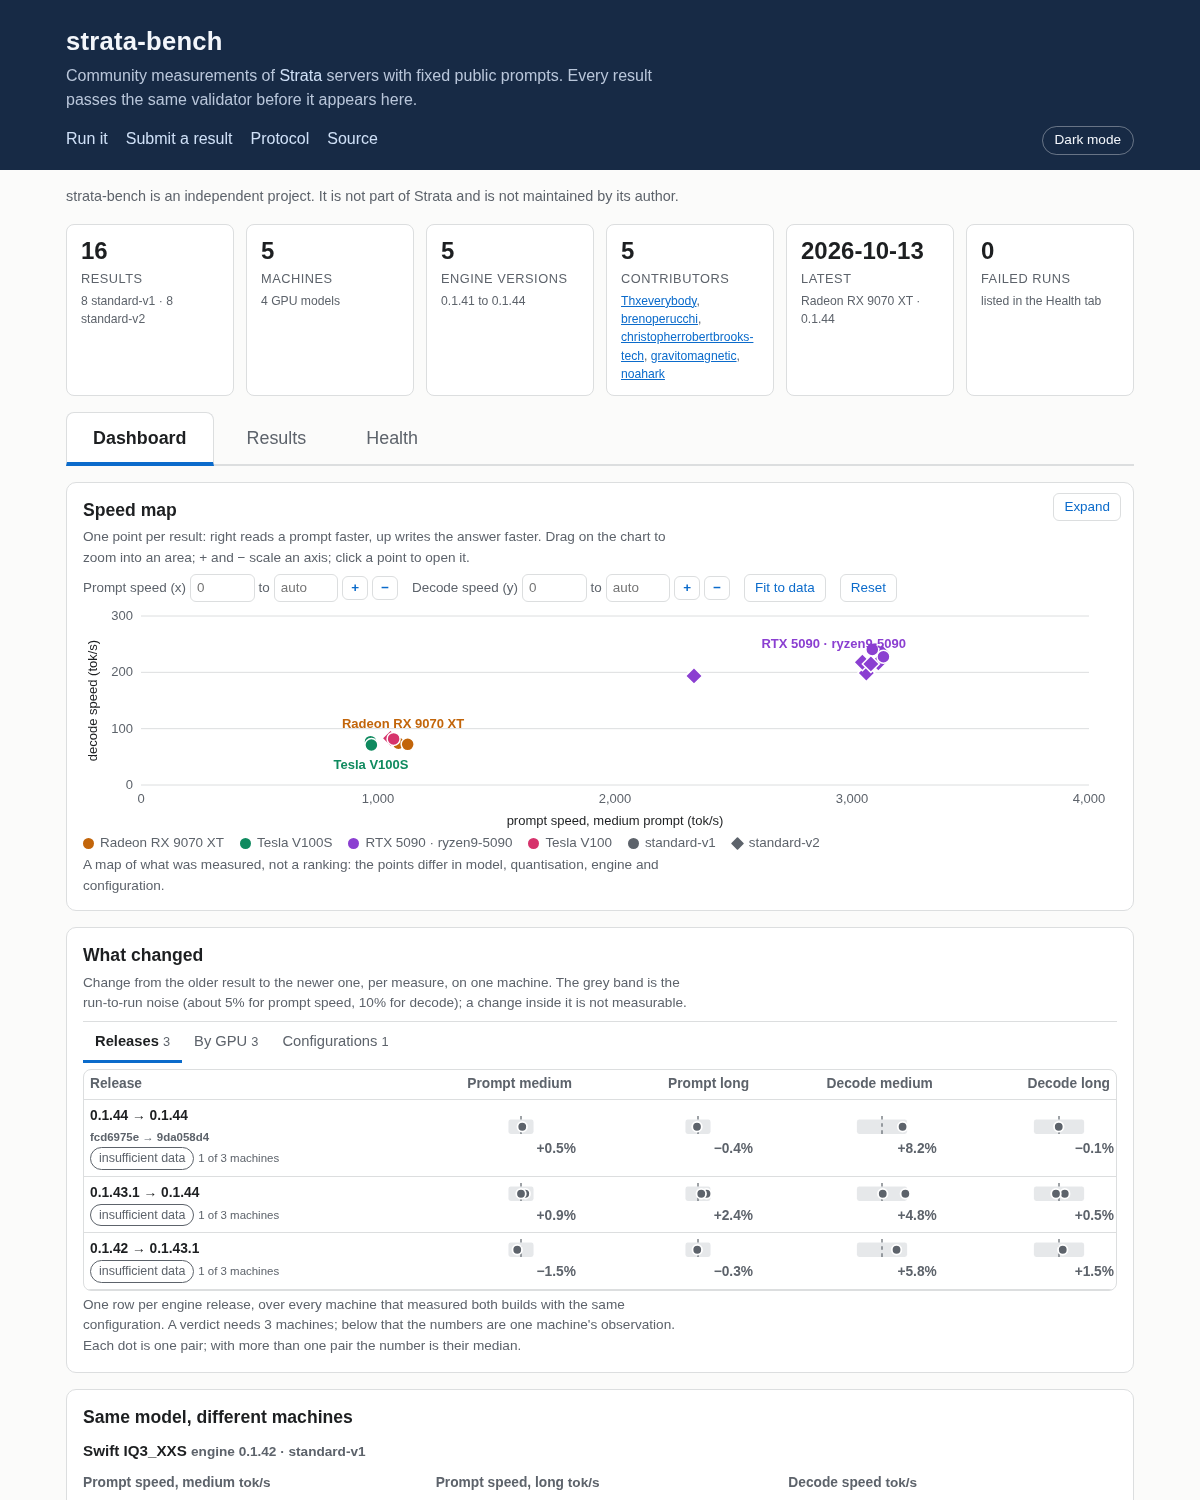
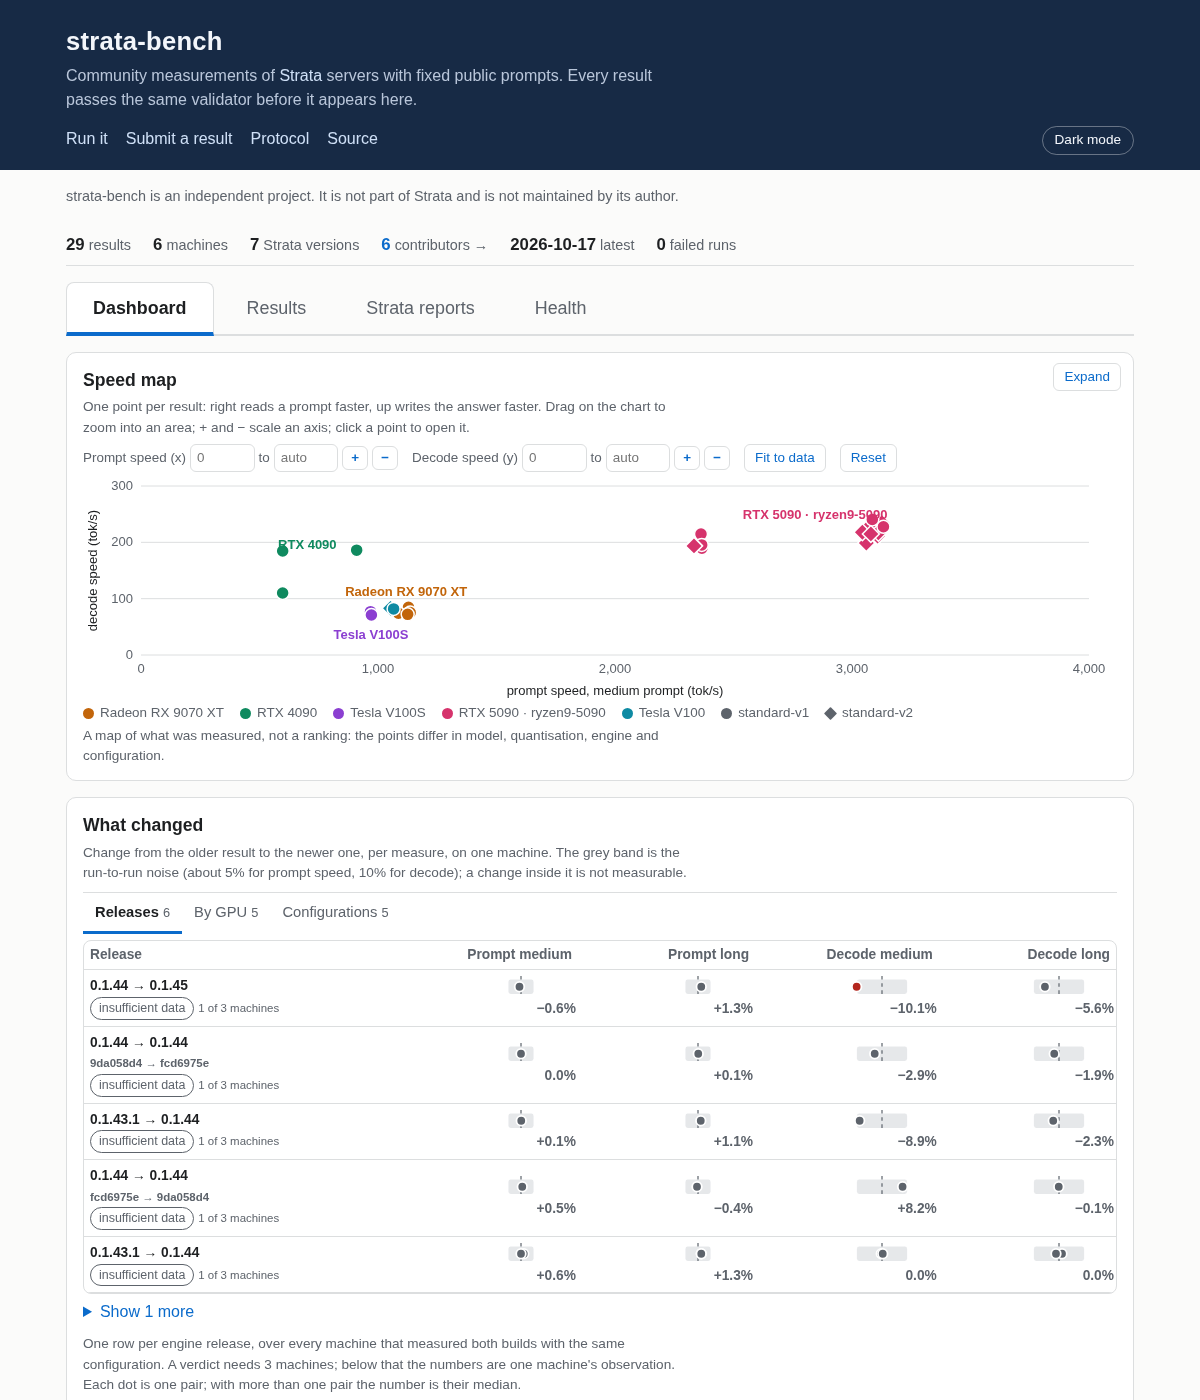
A quieter summary line, and a thank-you page for the contributors
The six summary cards become one line of numbers. The contributors are a count that links to contributors.html, which lists everyone who declared a name (results, GPUs, Strata versions, first and latest day, each name linking to that person's results), so the top of the page no longer grows with the number of people. README text and screenshots updated.

diff --git a/docs/contributors.js b/docs/contributors.js
@@ -1,0 +1,40 @@
+"use strict";
+// The thank-you page: who ran strata-bench on their own machine and sent a result, read from data.json.
+// A name is declared by whoever sent the result (submission.by), not verified; every value is escaped before it reaches the page.
+(function (root) {
+  var esc = function (s) { return String(s === null || s === undefined ? "" : s).replace(/[&<>"']/g, function (c) { return { "&": "&amp;", "<": "&lt;", ">": "&gt;", '"': "&quot;", "'": "&#39;" }[c]; }); };
+  var day = function (d) { return String(d || "").slice(0, 10); };
+
+  // one entry per declared name: how many results, on which GPUs and engines, first and last day; most results first
+  function people(rows) {
+    var by = {};
+    rows.forEach(function (r) {
+      if (!r || !r.by) return;
+      var p = by[r.by] = by[r.by] || { name: r.by, results: 0, gpus: {}, engines: {}, first: "", last: "" };
+      p.results++;
+      if (r.gpu) p.gpus[r.gpu] = 1;
+      if (r.engine) p.engines[r.engine] = 1;
+      var d = day(r.date);
+      if (d && (!p.first || d < p.first)) p.first = d;
+      if (d && d > p.last) p.last = d;
+    });
+    return Object.keys(by).map(function (k) { var p = by[k]; p.gpus = Object.keys(p.gpus).sort(); p.engines = Object.keys(p.engines).sort(); return p; })
+      .sort(function (a, b) { return b.results - a.results || a.name.localeCompare(b.name); });
+  }
+
+  function render(rows) {
+    var list = people(rows || []);
+    if (!list.length) return "<p class='hint'>No name has been declared yet. Add <code>--by your-name</code> to your run and your result is listed here.</p>";
+    var total = list.reduce(function (n, p) { return n + p.results; }, 0);
+    return "<p class='lede-text'>Every row is someone who ran strata-bench on their own machine and sent the result. " + esc(list.length) + " people so far, " + esc(total) + " results between them. Thank you.</p>" +
+      "<div class='scroll'><table class='contributors'><thead><tr><th>Name</th><th class='num'>Results</th><th>GPUs</th><th>Strata versions</th><th>First</th><th>Latest</th></tr></thead><tbody>" +
+      list.map(function (p) {
+        return "<tr><td><a href='index.html?by=" + encodeURIComponent(p.name) + "'>" + esc(p.name) + "</a></td><td class='num'>" + esc(p.results) + "</td><td>" + esc(p.gpus.join(", ") || "–") + "</td><td>" + esc(p.engines.join(", ") || "–") + "</td><td class='nowrap'>" + esc(p.first || "–") + "</td><td class='nowrap'>" + esc(p.last || "–") + "</td></tr>";
+      }).join("") + "</tbody></table></div>" +
+      "<p class='hint'>A name is declared by whoever sent the result and is not verified. Click a name to see that person's results. Want to be on this list? <a href='submit.html'>Send a result</a>.</p>";
+  }
+
+  var api = { people: people, render: render };
+  root.StrataContributors = api;
+  if (typeof module !== "undefined" && module.exports) module.exports = api;
+})(typeof window !== "undefined" ? window : this);

diff --git a/docs/overview.js b/docs/overview.js
@@ -23,19 +23,22 @@
     return out;
   }
 
+  // The numbers at the top, as one quiet line: the contributors are a count that links to the thank-you page, so the line never grows with the people.
   function kpi(rows) {
     var s = I.summary(rows), latest = s.latest;
     var eng = s.engines.length > 1 ? s.engines[0] + " to " + s.engines[s.engines.length - 1] : s.engines[0] || "";
-    var who = s.contributors.map(function (n) { return "<a href='?by=" + encodeURIComponent(n) + "'>" + esc(n) + "</a>"; }).join(", ");
     var items = [
       [fmt(s.results, 0), "results", fmt(s.protocols.v1, 0) + " standard-v1 · " + fmt(s.protocols.v2, 0) + " standard-v2"],
       [fmt(s.machines, 0), "machines", fmt(s.gpus, 0) + " GPU model" + (s.gpus === 1 ? "" : "s")],
-      [fmt(s.engines.length, 0), "engine versions", esc(eng)],
-      [fmt(s.contributors.length, 0), "contributors", who || "no name declared yet"],
-      [latest ? esc(String(latest.date || "").slice(0, 10)) : "–", "latest", latest ? esc(latest.gpu) + " · " + esc(latest.engine) : ""],
+      [fmt(s.engines.length, 0), "Strata versions", eng],
+      [fmt(s.contributors.length, 0), "contributors", "Thank you: see who ran strata-bench", "contributors.html"],
+      [latest ? esc(String(latest.date || "").slice(0, 10)) : "–", "latest", latest ? latest.gpu + " · " + latest.engine : ""],
       [fmt(s.failed, 0), "failed runs", "listed in the Health tab"]
     ];
-    return items.map(function (i) { return '<div class="card kpi"><b>' + i[0] + "</b><span>" + i[1] + "</span><small>" + i[2] + "</small></div>"; }).join("");
+    return items.map(function (i) {
+      var inner = "<b>" + i[0] + "</b> <span>" + esc(i[1]) + "</span>";
+      return "<div class='stat' title='" + esc(i[2]) + "'>" + (i[3] ? "<a href='" + esc(i[3]) + "'>" + inner + " →</a>" : inner) + "</div>";
+    }).join("");
   }
 
   var niceStep = function (v) { var p = Math.pow(10, Math.floor(Math.log10(v))), n = v / p; return (n <= 1 ? 1 : n <= 2 ? 2 : n <= 5 ? 5 : 10) * p; };

diff --git a/docs/contributors.html b/docs/contributors.html
@@ -1,0 +1,30 @@
+<!doctype html>
+<html lang="en">
+<head>
+<meta charset="utf-8">
+<meta name="viewport" content="width=device-width, initial-scale=1">
+<title>Contributors · strata-bench</title>
+<meta name="description" content="The people who ran strata-bench on their own machines and sent a result.">
+<link rel="stylesheet" href="style.css">
+<script src="theme.js"></script>
+</head>
+<body>
+<header>
+  <div class="wrap">
+    <h1>Thank you</h1>
+    <p class="lede">The people who ran strata-bench on their own machines and sent a result.</p>
+    <nav><a href="index.html">Dashboard</a><a href="submit.html">Submit a result</a><a href="https://github.com/brenoperucchi/strata-bench">Source</a></nav>
+  </div>
+</header>
+<main class="wrap">
+  <div id="people"><p class="hint">Loading...</p></div>
+  <noscript><p class="note">This page needs JavaScript to draw the list. The data is plain JSON in <a href="data.json">data.json</a>.</p></noscript>
+</main>
+<script src="contributors.js"></script>
+<script>
+  fetch("data.json", { cache: "no-cache" }).then(function (r) { return r.json(); }).then(function (d) {
+    document.getElementById("people").innerHTML = StrataContributors.render(d.results || []);
+  }).catch(function () { document.getElementById("people").innerHTML = "<p class='hint'>The list could not be loaded.</p>"; });
+</script>
+</body>
+</html>

diff --git a/docs/style.css b/docs/style.css
@@ -218,3 +218,12 @@ table.reports th, table.reports td { padding: 7px 6px; }
 #perf { font-size: .84rem; }
 #perf td.strata { font-weight: 700; white-space: nowrap; }
 #perf .cpu { display: inline-block; max-width: 10.5em; overflow: hidden; text-overflow: ellipsis; white-space: nowrap; vertical-align: bottom; }
+
+/* the numbers at the top: one quiet line */
+.stats { display: flex; flex-wrap: wrap; gap: 4px 22px; margin: 10px 0 6px; padding: 8px 0; border-bottom: 1px solid var(--line); font-size: .9rem; color: var(--muted); }
+.stats .stat b { color: var(--fg); font-size: 1.05rem; font-weight: 600; }
+.stats .stat a { color: var(--muted); text-decoration: none; }
+.stats .stat a:hover { color: var(--accent); text-decoration: underline; }
+.stats .stat a b { color: var(--accent); }
+table.contributors { font-size: .9rem; }
+.lede-text { margin: 14px 0 10px; }

diff --git a/docs/index.html b/docs/index.html
@@ -23,7 +23,7 @@
 </header>
 <main class="wrap">
   <p class="note" id="independence">strata-bench is an independent project. It is not part of Strata and is not maintained by its author.</p>
-  <section id="cards" class="cards" aria-label="Summary"></section>
+  <section id="cards" class="stats" aria-label="Summary"></section>
   <div class="tabs" role="tablist">
     <button role="tab" id="tab-dash" aria-selected="true" aria-controls="view-dash">Dashboard</button>
     <button role="tab" id="tab-perf" aria-selected="false" aria-controls="view-perf">Results</button>

diff --git a/tests/test_contributors.py b/tests/test_contributors.py
@@ -1,0 +1,60 @@
+"""The thank-you page: who is listed, in what order, and that a declared name never reaches the page as markup."""
+import json
+import shutil
+import subprocess
+import unittest
+from pathlib import Path
+
+ROOT = Path(__file__).resolve().parent.parent
+NODE = shutil.which("node")
+
+
+def run(js):
+    r = subprocess.run([NODE, "-e", js], capture_output=True, text=True, timeout=30, cwd=ROOT)
+    assert r.returncode == 0, r.stderr
+    return json.loads(r.stdout)
+
+
+ROWS = [
+    {"by": "ana", "gpu": "RTX 5090", "engine": "0.1.43", "date": "2026-10-12T10:00:00-03:00"},
+    {"by": "ana", "gpu": "RTX 5090", "engine": "0.1.44", "date": "2026-10-14T10:00:00-03:00"},
+    {"by": "bob", "gpu": "RX 9070 XT", "engine": "0.1.44", "date": "2026-10-13T10:00:00-03:00"},
+    {"by": None, "gpu": "V100", "engine": "0.1.41", "date": "2026-10-01T10:00:00-03:00"},
+]
+
+
+@unittest.skipUnless(NODE, "node is not installed")
+class Contributors(unittest.TestCase):
+    def call(self, expr, rows=ROWS):
+        return run(f"const C = require('./docs/contributors.js'); console.log(JSON.stringify({expr}));".replace("ROWS", json.dumps(rows)))
+
+    def test_people_are_grouped_by_declared_name_with_the_most_results_first_and_a_result_without_a_name_is_left_out(self):
+        got = self.call("C.people(ROWS).map(p => [p.name, p.results, p.gpus, p.engines, p.first, p.last])")
+        self.assertEqual(got, [["ana", 2, ["RTX 5090"], ["0.1.43", "0.1.44"], "2026-10-12", "2026-10-14"], ["bob", 1, ["RX 9070 XT"], ["0.1.44"], "2026-10-13", "2026-10-13"]])
+
+    def test_the_page_thanks_them_counts_them_and_links_each_name_to_their_results(self):
+        html = self.call("C.render(ROWS)")
+        self.assertIn("2 people so far, 3 results", html)
+        self.assertIn("Thank you", html)
+        self.assertIn("index.html?by=ana", html)
+
+    def test_a_declared_name_never_reaches_the_page_as_markup(self):
+        rows = [{"by": "<img src=x onerror=alert(1)>", "gpu": "<script>x</script>", "engine": "\"'><b>", "date": "2026-10-12"}]
+        html = self.call("C.render(ROWS)", rows)
+        for bad in ("<img", "<script", "<b>"):
+            self.assertNotIn(bad, html)
+        self.assertIn("&lt;img", html)
+        self.assertIn("index.html?by=%3Cimg", html)                                   # the name in the link is URL-encoded
+
+    def test_without_names_the_page_says_how_to_get_listed(self):
+        self.assertIn("--by your-name", self.call("C.render([])"))
+
+    def test_the_page_and_the_top_line_point_at_each_other(self):
+        page = (ROOT / "docs" / "contributors.html").read_text()
+        self.assertIn('<script src="contributors.js"></script>', page)
+        self.assertIn('href="index.html"', page)
+        self.assertEqual(subprocess.run([NODE, "--check", str(ROOT / "docs" / "contributors.js")], capture_output=True).returncode, 0)
+
+
+if __name__ == "__main__":
+    unittest.main()

diff --git a/tests/test_overview.py b/tests/test_overview.py
@@ -347,6 +347,15 @@ class OverviewHtml(unittest.TestCase):
         self.assertNotIn("TTFT", table)
         self.assertNotIn(">Agent", table)
 
+    def test_the_top_numbers_are_one_quiet_line_and_the_contributors_are_a_count_that_links_to_the_thanks_page(self):
+        rows = [row(f"r{i}", by=f"person{i}") for i in range(12)]                    # twelve people: the line must not grow with them
+        cards = self.render(rows)["cards"]
+        self.assertEqual(cards.count("class='stat'"), 6)
+        self.assertIn("<a href='contributors.html'>", cards)
+        self.assertIn("<b>12</b> <span>contributors</span>", cards)
+        self.assertNotIn("person3", cards)                                            # no names in the line
+        self.assertNotIn('class="card kpi"', cards)
+
     def test_the_page_loads_the_insight_modules_before_the_app(self):
         html = (ROOT / "docs" / "index.html").read_text()
         self.assertLess(html.index("insights.js"), html.index("overview.js"))

diff --git a/README.md b/README.md
@@ -18,7 +18,7 @@ strata-bench is an independent project. It is not part of Strata and is not main
 
 - A runner that measures a Strata server you already run and writes one `result.json` (schema `strata-bench/v1`, or `strata-bench/v2` with `--protocol standard-v2`) per configuration.
 - A validator that is the public-export gate: it accepts only results of the public protocol and refuses anything that looks like a local path, a private address or a secret.
-- A dashboard under a summary strip, in three tabs: Dashboard, Results and Health. The Dashboard tab opens with a full-width speed map (one point per result; drag on the chart to zoom into an area, use + and − to scale an axis, type a range or fit it to the data, and Expand opens it over the page), a "What changed" panel with three tabs (Releases: one row per engine release over every machine, By GPU: each machine's comparisons in compact rows, Configurations: the arguments that differ), drawn against the run-to-run noise band, and the same model on different machines. The panel keeps its height as results grow: groups fold and long lists stop at five rows. It says "insufficient data" instead of a verdict until three machines back a release, and a pair where the build and the configuration changed together is shown but flagged, since it does not say which one moved the numbers. A legacy result that has only the short prompts (`gprobe`) has no medium or long speed, so it is compared by the time to read the prompt, where a drop is the improvement, in its own table. The Results tab lists every result with prompt and decode speeds side by side for the same model and config; a link with a filter (`?by=name`) opens on it. Tick two or three results and Compare opens them side by side, with a scoreboard of who is in front on more measures: only measures present in every selected result count, a lead inside the run-to-run noise band is a tie, and it says in words that this counts measures and does not show one setup is better overall or why. The Strata reports tab lists the community reports of the Strata repository (read by `tools/import_strata_reports.py` into `docs/community.json`, with the commit and the source of each one) by CPU, RAM, GPU and VRAM, Strata version, quantisation, context and the 4K, 32K and 128K prompt and decode speeds, with a filter by version and quantisation and sortable columns (the short chat, the 16K prompt and HumanEval are in the file but too few reports state them for a column). A Show filter picks the full reports (those that state the prompt speed at 4K, 32K and 128K and the decode speed), only the ones with at least one speed, or all of them, and a Context filter limits the context the reporter ran with (up to 32K, 128K, 256K, 1M, or over 1M). The tab says in a notice that they are not comparable with the results and they are never ranked with them. The Health tab lists the catastrophic failures that runs recorded: crash, out of memory, degenerate output, hang, server error.
+- A dashboard under a one-line summary (results, machines, Strata versions, contributors, latest, failed runs; the contributors count links to a thank-you page that lists everyone who sent a result), in four tabs: Dashboard, Results, Strata reports and Health. The Dashboard tab opens with a full-width speed map (one point per result; drag on the chart to zoom into an area, use + and − to scale an axis, type a range or fit it to the data, and Expand opens it over the page), a "What changed" panel with three tabs (Releases: one row per engine release over every machine, By GPU: each machine's comparisons in compact rows, Configurations: the arguments that differ), drawn against the run-to-run noise band, and the same model on different machines. The panel keeps its height as results grow: groups fold and long lists stop at five rows. It says "insufficient data" instead of a verdict until three machines back a release, and a pair where the build and the configuration changed together is shown but flagged, since it does not say which one moved the numbers. A legacy result that has only the short prompts (`gprobe`) has no medium or long speed, so it is compared by the time to read the prompt, where a drop is the improvement, in its own table. The Results tab lists every result with prompt and decode speeds side by side for the same model and config; a link with a filter (`?by=name`) opens on it. Tick two or three results and Compare opens them side by side, with a scoreboard of who is in front on more measures: only measures present in every selected result count, a lead inside the run-to-run noise band is a tie, and it says in words that this counts measures and does not show one setup is better overall or why. The Strata reports tab lists the community reports of the Strata repository (read by `tools/import_strata_reports.py` into `docs/community.json`, with the commit and the source of each one) by CPU, RAM, GPU and VRAM, Strata version, quantisation, context and the 4K, 32K and 128K prompt and decode speeds, with a filter by version and quantisation and sortable columns (the short chat, the 16K prompt and HumanEval are in the file but too few reports state them for a column). A Show filter picks the full reports (those that state the prompt speed at 4K, 32K and 128K and the decode speed), only the ones with at least one speed, or all of them, and a Context filter limits the context the reporter ran with (up to 32K, 128K, 256K, 1M, or over 1M). The tab says in a notice that they are not comparable with the results and they are never ranked with them. The Health tab lists the catastrophic failures that runs recorded: crash, out of memory, degenerate output, hang, server error.
 
 ## Run it
 
